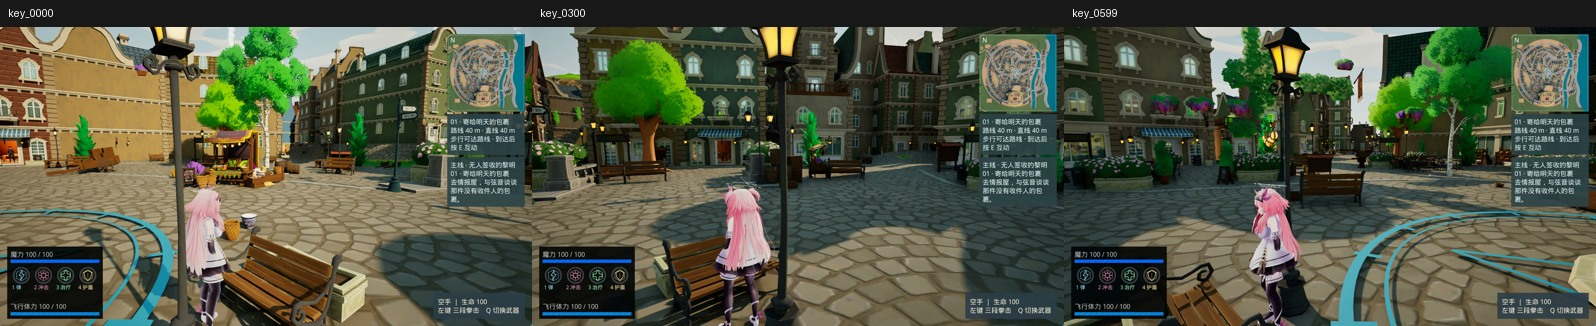
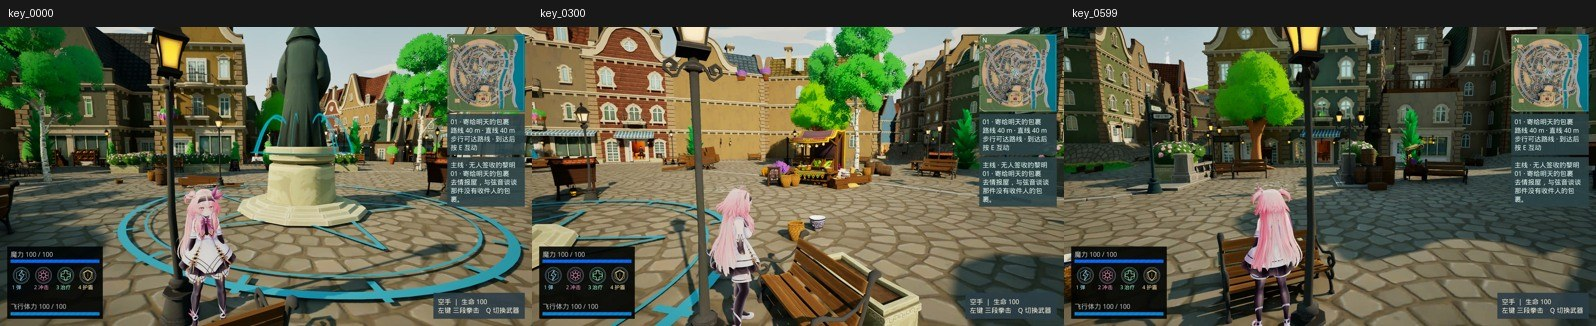
Document R3 polish step 8 with measured progress

diff --git a/docs/HarborCity_M5_VS4/R3/STATUS.md b/docs/HarborCity_M5_VS4/R3/STATUS.md
@@ -1,6 +1,6 @@
 # R3 修补进度 · 2026-10-20
-现做第8项正式Shipping、完整回归及性能复测；第4/7项未过项保留，绝不预填通过。Esc立即停止，游戏暂停只用P。
-第1项尾项通过：恢复堆128/16后Epic两次启动通过，四处55.5—66.9FPS/p99≤22.81ms、>50ms为0；20秒600帧重复0%。最终包复测待跑；第2项通过。
+正式EXE：E:\GameDev\Builds\HarborCity\M5_VS4\Candidate_20261020_113337_669_1bcc1812\Archive\Windows\HarborCity\Binaries\Win64\HarborCity-Win64-Shipping.exe；第8项已交付，完整回归323/323、31/31特效、27/27声音通过；保留第4/7项FAIL，旧回归2FAIL见TEST_REPORT。 旧录像转存被自动审批审查拒绝，原件保留。
+第1项最终包High FPS/p99ms：广场60.0/19.45、港口60.0/19.34、公会60.0/19.45、王座厅60.0/19.28；Epic：广场56.6/22.11、港口67.0/19.06、公会62.4/20.66、王座厅55.1/22.03。20秒600帧近重复0.00%；两档>50/>100ms均0，High快甩≤19.51ms、Epic≤26.38ms；细表见本机DELIVERY。第2项通过。
 第3项完成：77盏作者原位Movable灯、五处D.2、112窗光昼夜、393冻结点；具名NPC370/370、昼夜34/34通过。
 第4项4原段及3纠正段保存/重载/具名NPC通过；818物件改动（含91移除），5cm容差不变，未宣称范围内清零。
 范围内未改254：运河 栏杆102；城堡 灯2,栏杆73；中央 栏杆7；市场 栏杆9；港口 栏杆49；工坊 灯1,栏杆11；其中251为整体栏杆，另3为墙灯。
@@ -9,7 +9,7 @@
 范围外/跨界481：运河 车4,其他3,花盆21,栏杆43,小植被19；城堡 花盆21,栏杆41,小植被20；中央 车2；城门 车1,花盆31,栏杆25,小植被31；市场 车3,灯3,其他2,花盆16,栏杆13,小植被15；港口 灯1,花盆14,栏杆10,小植被13,摊位1；工坊 车4,灯4,其他2,花盆47,栏杆28,小植被43。
 第4项有效工作278/360分钟，等待不计；最严重20处仅11组照片可交付，9组补拍失败仍缺，详见本地SCOPED_PROGRESS。
 第5项完成：原创木/黄铜魔导车、辐条轮和蓝魔晶已实装；22项检查及接送/主线/双向切图/星弓冒烟通过；3转台+1街景已出图。
-第6项桥头/导航修补、重载、具名45/45、港口至王座厅19段实走45/45通过；30分钟探索PASS，实走7161.3米，>100ms卡顿0次，内存增长-618.4MiB。
+第6项桥头/导航修补、重载、具名45/45、港口至王座厅19段实走45/45通过；30分钟探索PASS，实走7161.3米，>100ms卡顿0次（47切换样本另列），内存增长-618.4MiB。
 第7项31件/7房间保存重载、具名80项通过；深处实走5/7，B146/B142原包亦有导航缺口；8室进门124/125，B010退出76.8cm>70cm，保留FAIL。
-图片：[室内家具1](progress/polish07_furnished_rooms_20261020_01.jpg) · [室内家具2](progress/polish07_furnished_rooms_20261020_02.jpg)；第4项9组照片缺口保留。
-证据：[断点](WORK_CHECKPOINT.json) · [第4项数量与缺口](appendix/resume_20261019/SCOPED_PROGRESS.json)。
+图片：[最终场景](progress/polish08_plaza_20261020.jpg) · [镜头对比](progress/polish08_distance_comparison_20261020.jpg) · [家具](progress/polish07_furnished_rooms_20261020_01.jpg)；11组穿模配对已公开，9组缺口保留。
+本机详表：R3/DELIVERY.md、WORK_CHECKPOINT.json、appendix/resume_20261019/FINAL_DELIVERY_20261020.json；本轮仅公开JPG与本STATUS，未上传新的Release或游戏资源。
